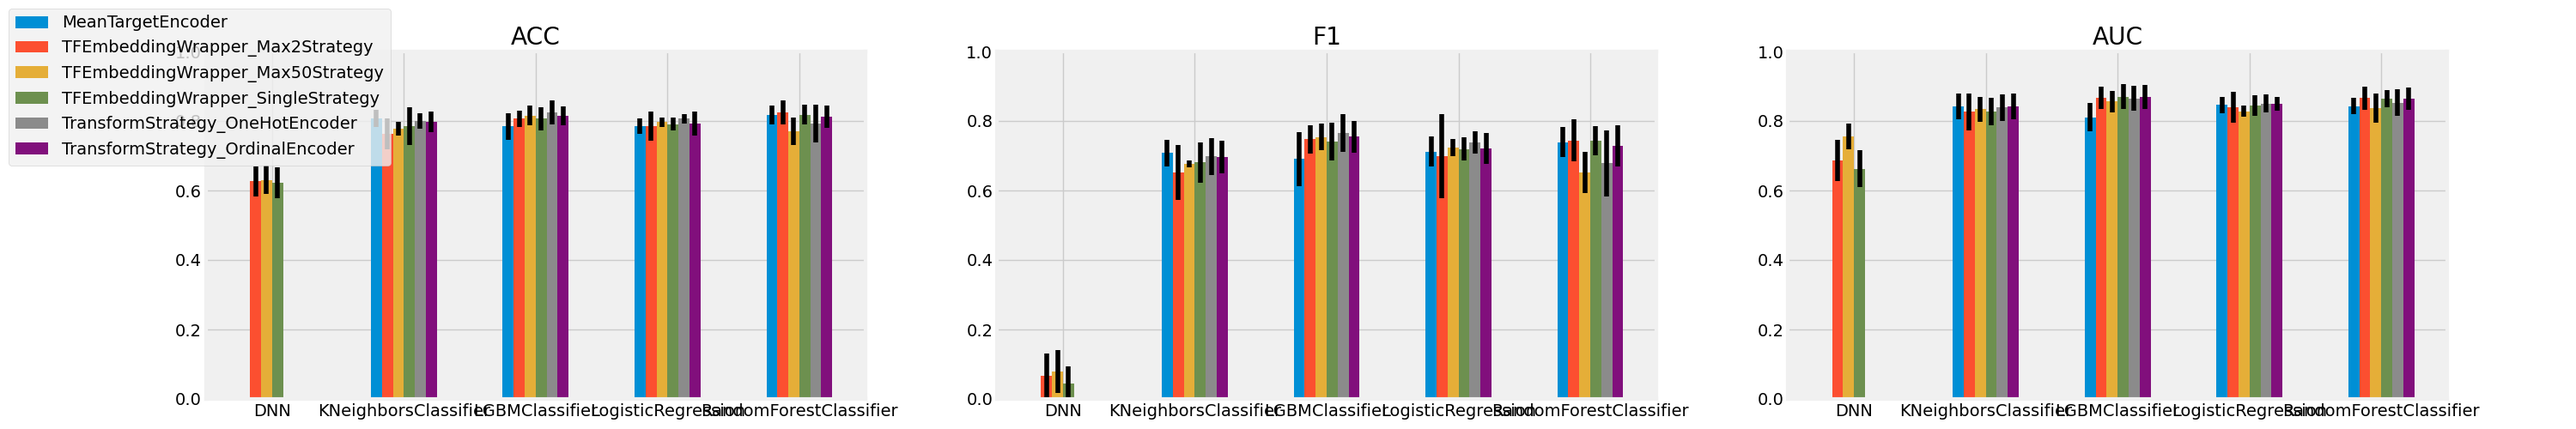
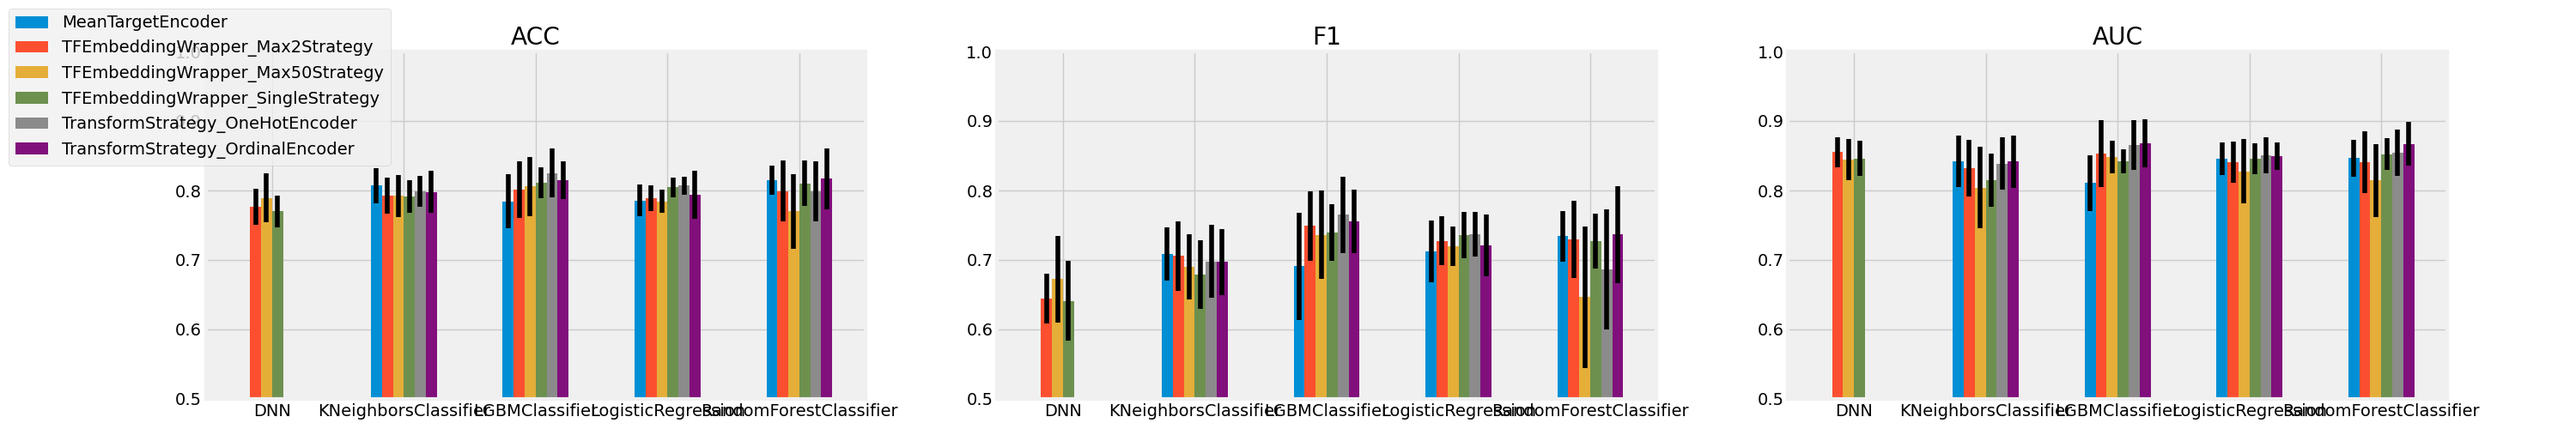
update streamlit to use BenchmarkRunner and include Embedding based encoders

diff --git a/streamlit.py b/streamlit.py
@@ -1,4 +1,5 @@
 import os
+import time
 
 from lightgbm import LGBMClassifier
 import matplotlib.pyplot as plt
@@ -33,11 +34,15 @@ run = st.sidebar.button("Run Benchmark")
 
 # choose encoders
 encoder_options = {
-        'One Hot': OneHotEncoder(handle_unknown='ignore'),
-        'Ordinal': OrdinalEncoder(handle_unknown='use_encoded_value', unknown_value=-1),
+        'One Hot': lambda f: col.TransformStrategy(f, OneHotEncoder(handle_unknown='ignore')),
+        'Ordinal': lambda f: col.TransformStrategy(f, OrdinalEncoder(handle_unknown='use_encoded_value', unknown_value=-1)),
+        'Embeddings Single': lambda f: col.embeddings.wrapper.TFEmbeddingWrapper(features=f, emb_size_strategy='single'),
+        'Embeddings Max2': lambda f: col.embeddings.wrapper.TFEmbeddingWrapper(features=f, emb_size_strategy='max2'),
+        'Embeddings Max50': lambda f: col.embeddings.wrapper.TFEmbeddingWrapper(features=f, emb_size_strategy='max50'),
+        'MeanTargetEncoder': lambda f: col.MeanTargetEncoder(f),
 }
 
-encoders = stc.create_checkbox_list(st.sidebar, encoder_options, 
+transformers = stc.create_checkbox_list(st.sidebar, encoder_options, 
                                title='Select Benchmark Encoders')
 
 # choose classifiers
@@ -55,7 +60,8 @@ clfs = stc.create_checkbox_list(st.sidebar, clf_options,
 # --- first section: information on task ---
 info1, info2 = st.columns(2)
 
-info1.write("""**Mean Target Encoding (MTE)** is a technique to transform categorical data into numerical by replacing the categorical value by the mean target value for all observations belonging to that category.  The goal of this project is to benchmark the performance of mean target encoding  against multiple encoding strategies for categorical variables in a structured dataset task.  
+info1.write("""**Mean Target Encoding (MTE)** is a technique to transform categorical data into numerical by replacing the categorical value by the mean target value for all observations belonging to that category.  The goal of this project is to benchmark the performance of mean target encoding  against multiple encoding strategies for categorical variables in a structured dataset task.
+**Categorical feature embeddings** are a potentially more expressive generalization of MTE which represents each categorical value as an embedding. embeddings sizes can be defined based on the cardinality of each feature. An embedding of size 1 should replicate closely the principle of MTE, but weights are learnt instead of explicitly defined.
 The benchmark can be run across multiple **binary classification** tasks, and considers multiple types of downstream classifiers.  
 Scoring is focused on Accuracy, F1-score and AUC.
 """)
@@ -107,11 +113,11 @@ print_task_info(summary, task)
 
 # --- define how to run the benchmark ---
     
-def run_benchmark(task, classifiers, encoders):
+def run_benchmark(task, classifiers, transformers):
     
     # initialize log
     logger = stc.StreamlitLogger()
-    logger.log("initializing report")
+    logger.log("Initializing report")
     
     # define scoring metrics of interest
     scorer = col.Scorer(
@@ -120,46 +126,53 @@ def run_benchmark(task, classifiers, encoders):
         auc=metrics.roc_auc_score,
     )
     
-    # initialize reporter
-    reporter = col.Report(scorer=scorer)
-    reporter.set_columns_to_show(['model', 'encoder'] + list(scorer.scoring_fcts.keys()))
+    # # initialize reporter
+    # reporter = col.Report(scorer=scorer)
+    # reporter.set_columns_to_show(['transformer', 'classifier'] + list(scorer.scoring_fcts.keys()))
     
     
-    logger.log("loading data")
+    logger.log("Loading data")
     # load data
     loader = col.DataLoader(root=ROOT_PATH, task=task)
-    df = loader.load_data()
+    data = loader.load_data()
     
     # define cross validation strategy
     kf = KFold(n_splits=5)
     
     # define features to select
-    feature_selection = col.FeatureSelection(**loader.get_selected_features(df))
+    feature_selection = col.FeatureSelection(**loader.get_selected_features(data))
     
     # update task details in the second column of the info section
-    print_task_info(summary, task, df, feature_selection)
+    print_task_info(summary, task, data, feature_selection)
     
-    # ad the MeanTargetEncoder to the list of encoders to evaluate
-    encoders += [col.MeanTargetEncoder(feature_selection)]
     
-    # evaluate each encoder / model pair
-    for model in classifiers:
-        logger.log(f"fitting {model}")
-        for encoder in encoders:
-            pipe = col.CategoricalPipeline(features=feature_selection,
-                                           model=clone(model),
-                                           scaler=MaxAbsScaler(),
-                                           encoder=clone(encoder))
-
-            cv_score = col.cv_score(pipeline=pipe,
-                                    data=df, 
-                                    kf=kf,
-                                    scorer=reporter.scorer)
-
-            reporter.add_to_report(pipe.config, cv_score, show=False)
+    runner = col.benchmark.BenchmarkRunner(features=feature_selection,
+                                           transformers=[transformer(feature_selection) for transformer in transformers],
+                                           classifiers=classifiers,
+                                           scorer = scorer,
+                                          )
+    for i, (train_idx, test_idx) in enumerate(kf.split(data)):
+        
+        logger.log(f"\tRunning benchmark on fold number {i+1}")
+        start = time.time()
+        
+        # split train and test data using the CV fold
+        cv_train, cv_test = data.iloc[train_idx], data.iloc[test_idx]
+        
+        X_train, y_train = feature_selection.select_features(cv_train)
+        X_test, y_test = feature_selection.select_features(cv_test)
+        
+        runner.run(X_train, y_train, X_test, y_test)
+        logger.log(f"\tRunning benchmark on fold number {i+1} - time = {col.utils.convert_time(time.time() - start)}")
+            
+                
+    logger.log("evaluation completed")
+    
+    # generate report
+    reporter = runner.create_reporter()
     
     # plot output
-    logger.log("plotting output")
+    logger.log("Plotting output")
     fig = col.plot_model_encoder_pairs(reporter, title=f"{task} dataset".capitalize(), show=False)
     
     st.write("### Summary Plot")
@@ -167,14 +180,15 @@ def run_benchmark(task, classifiers, encoders):
     
     # display top 5 encoder / classifier pairs
     st.write("### Top 5 Encoder / Classifier Pairs (by F1-score)")
+    print(reporter.columns_to_show)
     st.dataframe(reporter.show().sort_values('f1', ascending=False).head(5))
     
-    logger.log("benchmark completed")
+    logger.log("Benchmark completed")
     
 
 
 if run:
-    run_benchmark(task, clfs, encoders)
+    run_benchmark(task, clfs, transformers)
     
 
     

diff --git a/main.py b/main.py
@@ -28,7 +28,18 @@ ROOT_PATH = './'
 
 plt.style.use('fivethirtyeight')
 
+
+
+
 def main(args):
+
+
+    CLASSIFIERS = [
+        RandomForestClassifier(n_estimators=100, max_depth=5),
+        LogisticRegression(max_iter=500),
+        KNeighborsClassifier(n_neighbors=10),
+        LGBMClassifier(),
+    ]
     
     print(f"Comparing (model, encoder) pairs for the {args.task} classification task")
     print(f"\tloading dataset")
@@ -51,15 +62,8 @@ def main(args):
     
     reporter = col.Report(scorer=scorer)
     reporter.set_columns_to_show(['classifier', 'transformer'] + list(scorer.scoring_fcts.keys()))
-
-    classifiers = [
-        RandomForestClassifier(n_estimators=100, max_depth=5),
-        LogisticRegression(max_iter=500),
-        KNeighborsClassifier(n_neighbors=10),
-        LGBMClassifier(),
-    ]
-
-    transformers = [
+    
+    TRANSFORMERS = [
         col.MeanTargetEncoder(feature_selection),
         col.TransformStrategy(feature_selection, OneHotEncoder(handle_unknown='ignore')),
         col.TransformStrategy(feature_selection, OrdinalEncoder(handle_unknown='use_encoded_value', unknown_value=-1)),
@@ -67,20 +71,22 @@ def main(args):
         col.embeddings.wrapper.TFEmbeddingWrapper(features=feature_selection, emb_size_strategy='max2'),
         col.embeddings.wrapper.TFEmbeddingWrapper(features=feature_selection, emb_size_strategy='max50'),
     ]
-
+    
     print(f"""\t  5 cross-validation folds
-    \tx {len(transformers)} transformers
-    \tx {len(classifiers)} models 
+    \tx {len(TRANSFORMERS)} transformers
+    \tx {len(CLASSIFIERS)} models 
     \tcombinations to train and test""")
     
+    
+    
     runner = col.benchmark.BenchmarkRunner(features=feature_selection,
-                                           transformers=transformers,
-                                           classifiers=classifiers,
+                                           transformers=TRANSFORMERS,
+                                           classifiers=CLASSIFIERS,
                                            scorer = scorer,
                                           )
     for i, (train_idx, test_idx) in enumerate(kf.split(data)):
         
-        print(f"\tRunning benchmark on fold number {i+1}", end='\r')
+        print(f"\tRunning benchmark on fold number {i+1}") #, end='\r')
         start = time.time()
         
         # split train and test data using the CV fold
@@ -93,7 +99,7 @@ def main(args):
         print(f"\tRunning benchmark on fold number {i+1} - time = {col.utils.convert_time(time.time() - start)}")
             
                 
-    print("evaluation completed")
+    print("Evaluation completed")
     
     reporter = runner.create_reporter()
 

diff --git a/src/columnar/benchmark.py b/src/columnar/benchmark.py
@@ -106,14 +106,14 @@ class BenchmarkRunner:
     def create_reporter(self) -> Report:
         """returns a reporter object, using the logger data"""
         reporter = Report(scorer=self.scorer)
-        reporter.set_columns_to_show(['model', 'transformer'] + list(self.scorer.scoring_fcts.keys()))
+        reporter.set_columns_to_show(['classifier', 'transformer'] + list(self.scorer.scoring_fcts.keys()))
 
         for report_key, report in self.logger.reports.items():
-            transformer_str, model_str = report_key.split(':')
+            transformer_str, clf_str = report_key.split(':')
             config = {'feature_selection': str(self.features), 
                       'transformer': transformer_str, 
                       'scaler': str(self.scaler),
-                      'classifier': model_str}
+                      'classifier': clf_str}
 
             reporter.add_to_report(config, pd.DataFrame(report), show=False)
 

diff --git a/README.md b/README.md
@@ -1,6 +1,7 @@
-# Benchmark Mean Target Encoding against other Categorical Data Encoding Techniques
+# Benchmark Mean Target Encoding and Categorical Embeddings against other Categorical Data Encoding Techniques
 ## 1. Goal
 **Mean Target Encoding (MTE)** is a technique to transform categorical data into numerical by replacing the categorical value by the mean target value for all observations belonging to that category.  The goal of this project is to benchmark the performance of mean target encoding  against multiple encoding strategies for categorical variables in a structured dataset task.  
+**Categorical feature embeddings** are a potentially more expressive generalization of MTE which represents each categorical value as an embedding. embeddings sizes can be defined based on the cardinality of each feature. An embedding of size 1 should replicate closely the principle of MTE, but weights are learnt instead of explicitly defined.
 The benchmark is run across multiple binary classification tasks, and considers multiple types of downstream classifiers. Scoring is focused on Accuracy, F1-score and AUC.
 
 ---
